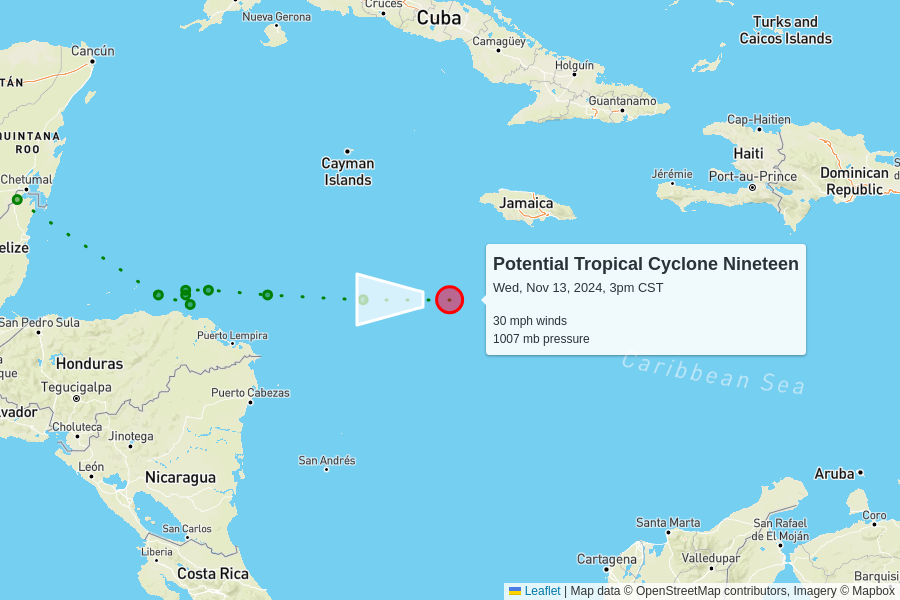
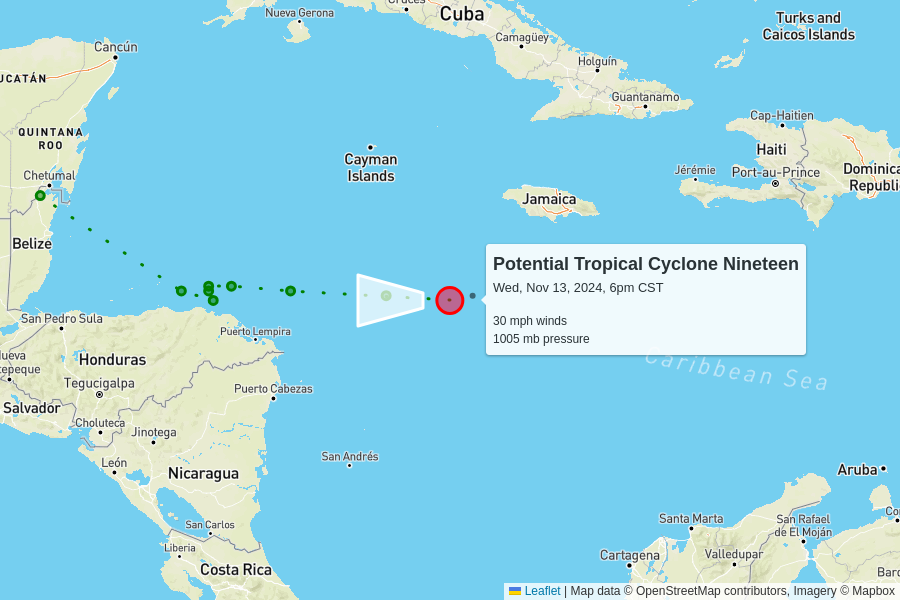
automatic update

diff --git a/docs/index.html b/docs/index.html
@@ -102,7 +102,7 @@
         <td colspan="6" class="storm category-0" >
           <h2>
             Potential Tropical Cyclone Nineteen
-            <p class="updated">last updated <span data-time>2024-11-13T21:00:00.000Z</span></p>
+            <p class="updated">last updated <span data-time>2024-11-14T00:00:00.000Z</span></p>
           </h2>
         </td>
       </tr>
@@ -117,8 +117,8 @@
       </tr>
       <tr>
         <td class="spacer"></td>
-        <td>30 mph</td>
-        <td>1007 mb</td>
+        <td>30 mph<br>0 mph since last update</td>
+        <td>1005 mb<br>-2 mb since last update</td>
         <td>
           6 mph to the west
           <br/>
